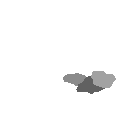
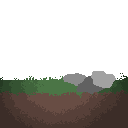
merge

diff --git a/main.cpp b/main.cpp
@@ -166,9 +166,6 @@ int main(int argc, char** argv)
 
 void start_cinematic2(Personnage& player, Img player_right[5], Img player_left[5],std::string score)
 {
-    Img keyboard;Img grass[nb_grass];Img dirt[nb_dirt]; Img sky[nb_sky];
-    load_textures(grass,dirt,sky);
-    load_keyboard(keyboard);
     int crd = 0;
     int cinematic_lenght_1 = 80;
     int cinematic_lenght_2 = 50;
@@ -177,7 +174,9 @@ void start_cinematic2(Personnage& player, Img player_right[5], Img player_left[5
     int crdx = 0;int crdy = crds_y_init;
     int fall_lenght = 50;
     
+    Img keyboard; load_keyboard(keyboard);
     Img startbackground; load_startback(startbackground);
+    Img rock; load_rock(rock);
 
     for(int i = 0 ; i < cinematic_lenght_1 - 1; i++)
     {
@@ -200,6 +199,7 @@ void start_cinematic2(Personnage& player, Img player_right[5], Img player_left[5
              drawString(w/2 - 760/2,h/3,"Déjà " + score +" mètres explorés...",BLACK,20,0,false,true);
         }
         draw_charac(player_right, player_left, player, 0);
+        draw_rock(rock);
 
         noRefreshEnd();
         milliSleep(msleep);
@@ -218,6 +218,7 @@ void start_cinematic2(Personnage& player, Img player_right[5], Img player_left[5
                 player.set_facing(i%2);
             }
             draw_charac(player_right, player_left, player, 0);
+            draw_rock(rock);
 
             noRefreshEnd();
         }
@@ -243,14 +244,28 @@ void start_cinematic2(Personnage& player, Img player_right[5], Img player_left[5
         milliSleep(msleep);
 
     }
-    //Affichae titre + touche
+    //Affichage titre + touche
+
+    // Fondu noir
+    int fondu_duree = 35;
+    AlphaColor noir(0,0,0,0);
+    for (int i = 0; i < fondu_duree; i++)
+    {
+        noRefreshBegin();
+        clearWindow();
+
+        draw_startback(startbackground);
+        noir.a() = 255 * (i/35);
+        fillRect(0,0,w,h,noir);
+
+        noRefreshEnd();
+        milliSleep(msleep);
+    }
 
     noRefreshBegin();
 
     clearWindow();
 
-
-    draw_startback(startbackground);
     drawString(w/2 - 760/2,h/3,"Scrolling (mettre vrai png)",BLACK,20,0,false,true);
     drawString(w/2 - 760/2,h/2,"Clic droit pour continuer...",WHITE,15,0,false,true);
     draw_keyboard(keyboard);
